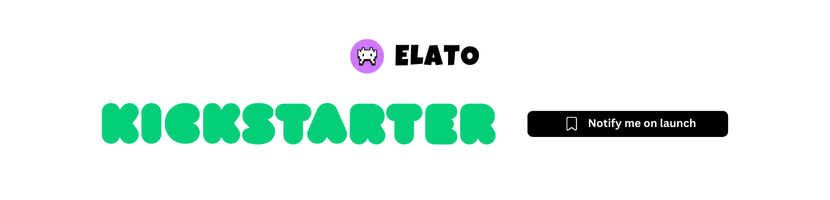
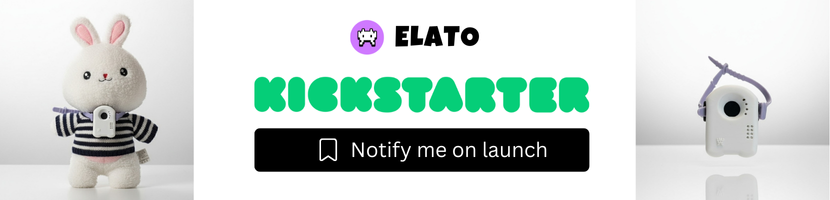
new image

diff --git a/README.md b/README.md
@@ -23,7 +23,7 @@
 </h3>
 </div>
 
-<img src="assets/ks1.png" alt="Elato Logo" width="100%">
+<img src="assets/ks.png" alt="Elato Logo" width="100%">
 
 
 # 🚀 Kickstarter Pre-Launch
